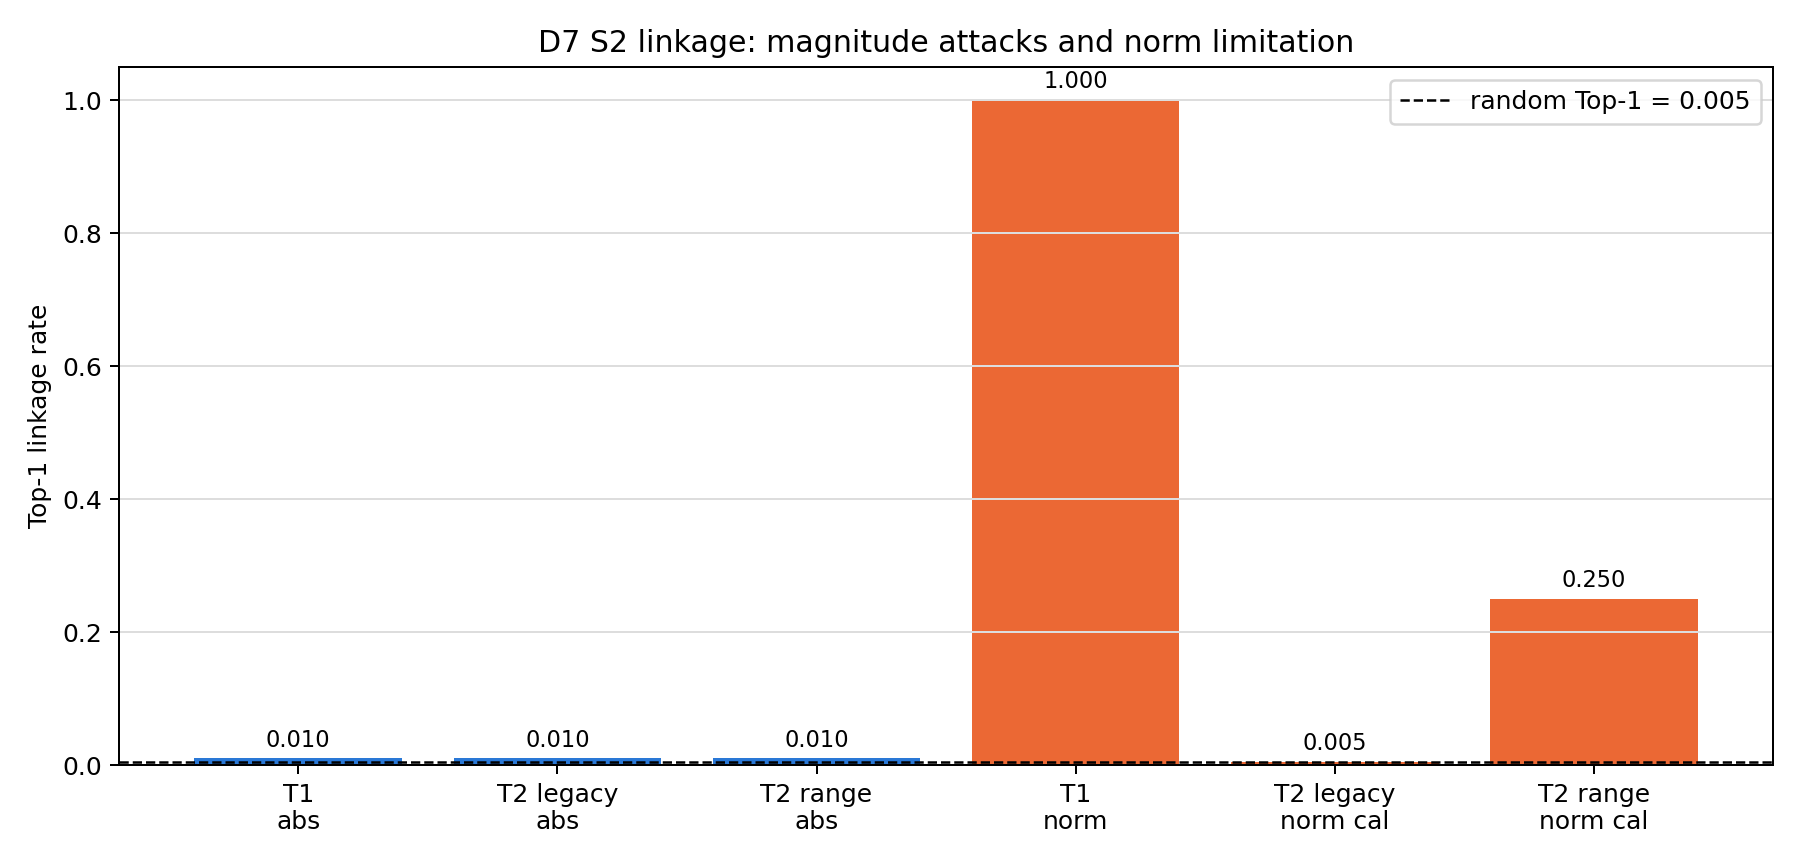
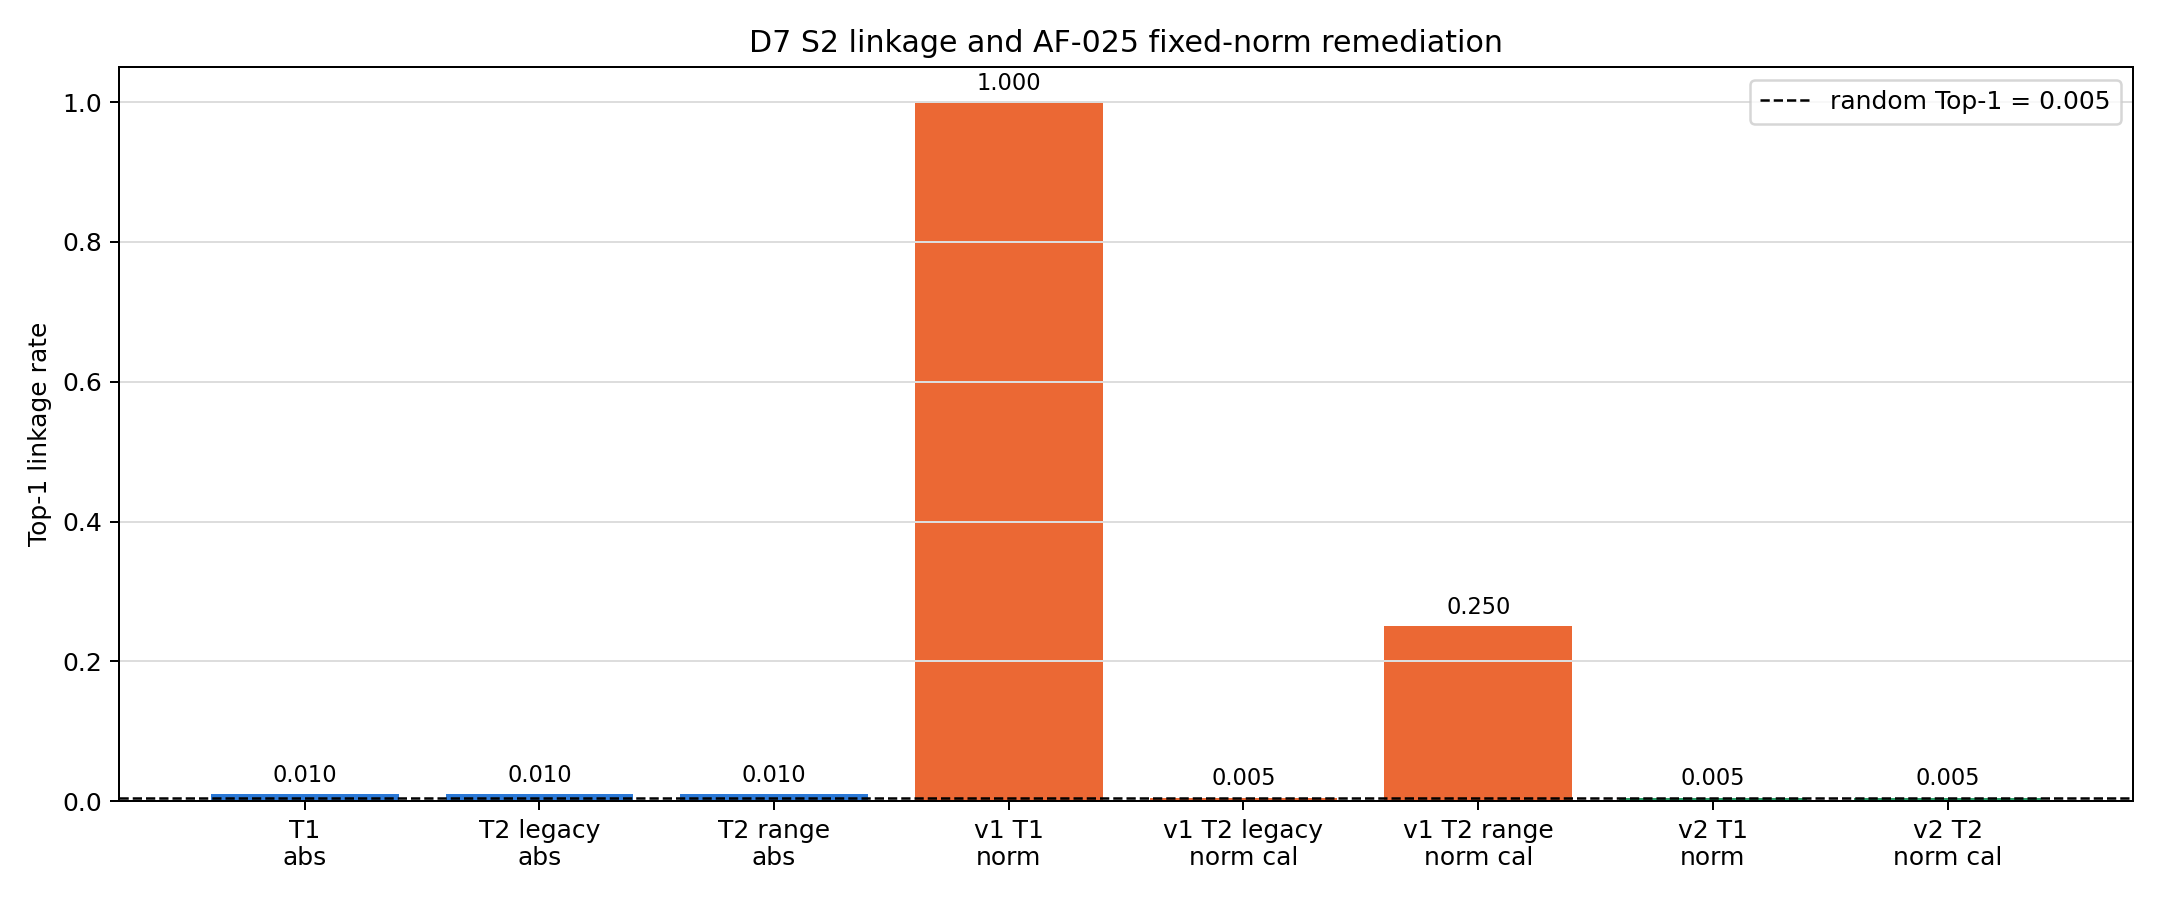
results: validate AF-025 fixed-norm defense

Changed region(s): [[0.0, 0.0312, 0.9956, 0.9688], [0.9644, 0.4062, 0.9956, 0.4375], [0.0311, 0.25, 0.0622, 0.2812]]

diff --git a/scripts/build_defense_package.py b/scripts/build_defense_package.py
@@ -57,6 +57,7 @@ def main() -> None:
         "repeat": ROOT / "paper_assets/tables/table_repeat.csv",
         "tamper": ROOT / "paper_assets/tables/table_tamper.csv",
         "inversion": ROOT / "paper_assets/tables/table_D7_T2WB_inversion.csv",
+        "fixed_norm": ROOT / "paper_assets/tables/table_AF025_fixed_norm_norm_leakage.csv",
     }
     data = {name: read_csv(path) for name, path in sources.items()}
     abs_t1 = select(data["attack"], threat_model="T1", scorer="abs")
@@ -74,6 +75,8 @@ def main() -> None:
     repeat_unique = int(data["repeat"][0]["unique_payloads_total"])
     inv_legacy = select(data["inversion"], storage="legacy_png", metric="attacker_latent_cosine")
     inv_range = select(data["inversion"], storage="range_preserving_png", metric="attacker_latent_cosine")
+    fixed_norm_t1 = select(data["fixed_norm"], threat_model="T1")
+    fixed_norm_t2 = select(data["fixed_norm"], threat_model="T2-WB", calibration="dev_median_to_C")
     claims = [
         ("D7-C1", "T1 original-|z| linkage", f"Top-1={float(abs_t1['top1']):.3f} (random=0.005)", "attack"),
         ("D7-C2", "T2-WB original-|z| linkage across storage", f"legacy={float(abs_t2_legacy['top1']):.3f}; range={float(abs_t2_range['top1']):.3f}", "attack"),
@@ -84,6 +87,7 @@ def main() -> None:
         ("D7-C7", "Same-plaintext repeat", f"unique protected payloads={repeat_unique}/100", "repeat"),
         ("D7-C8", "Authentication", f"S2 rejected={sum(r['rejected']=='True' for r in tamper_s2)}/{len(tamper_s2)}; S2a rejected={sum(r['rejected']=='True' for r in tamper_s2a)}/{len(tamper_s2a)}", "tamper"),
         ("D7-C9", "T2-WB inversion positive-control quality", f"latent cosine legacy={float(inv_legacy['mean']):.6f}; range={float(inv_range['mean']):.6f}", "inversion"),
+        ("D7-C10", "AF-025 fixed-norm remediation", f"norm Top-1 T1={float(fixed_norm_t1['top1']):.3f}; T2-WB={float(fixed_norm_t2['top1']):.3f}", "fixed_norm"),
     ]
     claim_rows = [{
         "claim_id": claim_id, "claim": claim, "headline": headline,
@@ -93,14 +97,15 @@ def main() -> None:
     } for claim_id, claim, headline, source_name in claims]
     write_csv(claims_path, claim_rows)
 
-    labels = ("T1\nabs", "T2 legacy\nabs", "T2 range\nabs", "T1\nnorm", "T2 legacy\nnorm cal", "T2 range\nnorm cal")
+    labels = ("T1\nabs", "T2 legacy\nabs", "T2 range\nabs", "v1 T1\nnorm", "v1 T2 legacy\nnorm cal", "v1 T2 range\nnorm cal", "v2 T1\nnorm", "v2 T2\nnorm cal")
     values = [float(abs_t1["top1"]), float(abs_t2_legacy["top1"]), float(abs_t2_range["top1"]),
-              float(norm_t1["top1"]), float(norm_legacy["top1"]), float(norm_range["top1"])]
-    colours = ["#2a78d6"] * 3 + ["#eb6834"] * 3
-    fig, ax = plt.subplots(figsize=(10, 4.8))
+              float(norm_t1["top1"]), float(norm_legacy["top1"]), float(norm_range["top1"]),
+              float(fixed_norm_t1["top1"]), float(fixed_norm_t2["top1"])]
+    colours = ["#2a78d6"] * 3 + ["#eb6834"] * 3 + ["#2a9d66"] * 2
+    fig, ax = plt.subplots(figsize=(12, 5.0))
     bars = ax.bar(labels, values, color=colours)
     ax.axhline(1 / 200, color="black", linestyle="--", linewidth=1, label="random Top-1 = 0.005")
-    ax.set_ylim(0, 1.05); ax.set_ylabel("Top-1 linkage rate"); ax.set_title("D7 S2 linkage: magnitude attacks and norm limitation")
+    ax.set_ylim(0, 1.05); ax.set_ylabel("Top-1 linkage rate"); ax.set_title("D7 S2 linkage and AF-025 fixed-norm remediation")
     ax.grid(axis="y", color="#dddddd", linewidth=0.8); ax.legend()
     for bar, value in zip(bars, values):
         ax.text(bar.get_x() + bar.get_width() / 2, value + 0.018, f"{value:.3f}", ha="center", fontsize=9)
@@ -110,10 +115,10 @@ def main() -> None:
     lines = [
         "# P7.1 Defense Package", "",
         "本素材包由 `scripts/build_defense_package.py` 從 D7 表格重建；headline 不手抄。",
-        "S2a 與 S2 的 confidentiality transform 相同，差別是 S2 加入 authentication。", "",
+        "v1 顯示正交 transform 的 norm limitation；AF-025 v2 加入固定 norm 與 private recovery metadata。", "",
         "## 主素材", "",
         "- 方法／整合圖：`image/D6.7_s2_dev.png`",
-        "- 攻擊與 norm limitation：`image/D7_attack_summary.png`、`paper_assets/tables/table_attack_original.csv`、`table_norm_leakage.csv`",
+        "- 攻擊、norm limitation 與修補：`image/D7_attack_summary.png`、`paper_assets/tables/table_attack_original.csv`、`table_norm_leakage.csv`、`table_AF025_fixed_norm_norm_leakage.csv`",
         "- cross-nonce／geometry／probe／repeat／tamper：同目錄各 D7 表格。", "",
         "## Claim index", "",
         "| ID | Claim | Headline | Source |", "|---|---|---|---|",
@@ -121,7 +126,7 @@ def main() -> None:
     lines.extend(f"| {row['claim_id']} | {row['claim']} | {row['headline']} | `{row['source']}@{row['source_sha256_12']}` |" for row in claim_rows)
     lines.extend(["", "## 限制", "", "- magnitude／norm 與 geometry 結果是指定攻擊的實測，不是通用安全證明。",
                   "- D7.4 的顯式 full-map KPA/CPA 為 d=1,024 synthetic diagnostic；同 nonce positive control 通過。",
-                  "- range-preserving T2-WB norm linkage 仍明顯高於 random，屬 AF-025，需使用者裁決保護強度。", ""])
+                  "- v1 range-preserving T2-WB norm linkage 明顯高於 random；AF-025 v2 的指定 T1/T2-WB norm attack 已回到 random，但仍不是通用安全證明。", ""])
     index_path.parent.mkdir(parents=True, exist_ok=True)
     index_path.write_text("\n".join(lines), encoding="utf-8")
     print(f"wrote {claims_path}, {index_path}, {args.figure}")

diff --git a/PROGRESS.md b/PROGRESS.md
@@ -1377,6 +1377,9 @@ S2 定義為：256-bit random master key（password mode 才使用 memory-hard K
 * 新增 `scripts/af025_fixed_norm_cpu.py`、`af025_fixed_norm_t2wb.py`、`af025_fixed_norm_analyze.py`；CPU runner 已對 frozen `security_v1` N=200 執行，GPU runner 尚未啟動。
 * 使用者同意在確認與既有 vLLM 可共存後執行正式 GPU 補驗。檢查 RTX 5090：總 32,607 MiB、vLLM 14,342 MiB、RustDesk 537 MiB、當時 free 17,201 MiB、utilization 0%；先以 N=2 smoke 實測再決定啟動 formal。
 * 第一次 N=2 smoke `AF025_FIXED_NORM_SMOKE_20261014T160133624188Z_f2ea04c4` 完成兩張科學計算但 managed artifact validation fail：manifest 遺漏必填的 `container_version`／`nonce_mode`。已補欄；該 run 保留為 failed，不修改後重用。
+* 修正版 N=2 smoke `AF025_FIXED_NORM_SMOKE_20261014T160317566922Z_8e4ca5a2` succeeded／valid；dev calibration `AF025_FIXED_NORM_DEV_20261014T160426684716Z_911608a9` 完成 20/20，`formal=false`、`evidence_role=dev_calibration`、clean commit `202c7fc`。
+* formal run `AF025_FIXED_NORM_FORMAL_20261014T161327001754Z_c4eda689` 完成 security_v1 200/200；每張只生成一次 anonymous image，再分別做 attacker public-PNG inversion 與 legitimate private-range inversion。run succeeded、artifact validator valid、query `(200,1,256,256)` 全部有限且 hash 重讀一致。
+* 執行 `scripts/af025_fixed_norm_analyze.py`：dev 只凍結 median attacker-norm/C=`1.013018`；formal 同時報 raw 與 dev-calibrated norm linkage，未用 formal 標籤調參。
 
 ### 3. 執行結果 (Results & Observations)
 * [事實] AF-025 CPU formal N=200：固定 norm T1 norm-only Top-1=`0.005`、Top-5=`0.025`，與 random=`0.005` 一致；原 S2 v1 的 T1 Top-1 為 `1.0`。
@@ -1385,11 +1388,16 @@ S2 定義為：256-bit random master key（password mode 才使用 memory-hard K
 * [事實] 全套正式測試範圍 `pytest -q tests` 為 108 passed、14 skipped；新增／相依 crypto focused tests 27 passed。
 * [事實] 目前沒有仍在執行的 AF-025 GPU managed run 或其他本專案背景程序；vLLM 為使用者既有程序，未停止或修改。
 * [事實] 第一次 smoke 執行中 DDIM Python 約占 1,712 MiB；含 vLLM/RustDesk 的 GPU 總使用 16,626 MiB，仍有 15,484 MiB free，未發生 OOM。兩張約 50 秒；正式 N=200 因每張一次生成＋攻擊者/合法端各一次 inversion，預估約 80–90 分鐘。
+* [事實] formal 實際耗時 77 分 10 秒，無 OOM／失敗／跳過；vLLM 未停止或修改。GPU 已釋放，目前沒有本專案背景程序。
+* [事實] AF-025 formal N=200：T2-WB raw norm-only Top-1=`0.005`、Top-5=`0.025`；dev-calibrated Top-1=`0.005`、Top-5=`0.035`；負控制與 random Top-1 均=`0.005`。原 S2 v1 的 range-preserving dev-calibrated Top-1=`0.250`。
+* [事實] legitimate private-range inversion 的 latent cosine mean=`0.999797`（95% bootstrap CI `[0.999794,0.999800]`）、min=`0.999729`；public PNG／storage record 200/200 均無 lo/hi。
+* [事實] 平均 runtime／張：anonymous generation=`7.744 s`、attacker inversion=`7.679 s`、legitimate inversion=`7.679 s`；三者合計約 `23.103 s`，不含一次性載入與 artifact validation。
+* [事實] defense package 已擴充為 10 條 claim，新增 D7-C10（fixed norm T1/T2-WB 均 `0.005`）；連續重建的 claims/index/figure SHA-256 完全一致。最終 `pytest -q tests` 為 108 passed、14 skipped。
 
 ### 4. 達標判定 (Assessment)
 * [x] AF-025 (a)(b)(e) 實作與 CPU formal T1／D7.6／D7.7 已完成實作方驗證。
-* [ ] AF-025 (c) formal N=200 T2-WB 尚待 N=2 smoke、dev calibration 與正式 managed GPU run。
-* [ ] finding 尚不可關閉；正式 GPU 結果與稽核複驗完成前維持「裁決已定、落地補驗中」。
+* [x] AF-025 (c)(d) formal N=200 T2-WB、repeat、structured probe 與 legitimate positive control 已完成實作方驗證。
+* [x] **AF-025 實作方 FIXED?**：裁決 (a)–(e) 均已落地，指定 norm attack 由 v1 的 T1=`1.0`／T2-WB=`0.25` 降至 v2 的 `0.005`／`0.005`；finding 仍須稽核方複驗後才 CLOSED。
 
 ### 5. 歸因分析與下一輪修正策略 (Reflection & Next Action)
 * 固定 norm 不是增加 WHT 輪數，而是在正交核心前移除已確認的病人間 norm 指紋；真實尺度只存在於經 AEAD 加密的 recovery metadata。
@@ -1400,5 +1408,5 @@ S2 定義為：256-bit random master key（password mode 才使用 memory-hard K
 * 無。依使用者最新裁決新增 §2.5 並更新 S2 v2 定義；formal sample size 維持 N=200，舊 S2 v1 結果保留作修補前基準而不覆寫。
 
 ### 7. 下一步
-* 先提交並固定 source commit，執行 AF-025 N=2 GPU smoke，同步觀察 VRAM 與 vLLM；若無 OOM 且餘裕合理，再跑 dev calibration 與使用者已條件同意的 formal N=200。
-* formal 完成後執行 analyzer、更新 AF-025 T1/T2-WB 表格與 defense package，記錄 runtime/storage/合法 fidelity，送稽核關閉 AF-025。
+* 請稽核方獨立複算 fixed-norm T1/T2-WB norm Top-k、確認 public PNG/record 不含 lo/hi、private metadata tamper ordering，以及 repeat／probe 結果；複驗後裁決 AF-025 是否 CLOSED。
+* AF-025 關閉後進入 Q8；影像端合法重構品質沿用稽核 phase-B n=40 作診斷，Q8 formal 另以 PSNR／SSIM／L∞ 完成主表，不以 latent cosine 取代影像品質。

diff --git a/reports/t2wb_protocol.md b/reports/t2wb_protocol.md
@@ -2,6 +2,7 @@
 
 > 狀態：§1–§3 為量測規則；§4 為使用者 2026-10-10 裁決的 `Inconclusive` 規則（取代原提案），A4／D7 依此實作。
 > 依據：WORKFLOW §3.4 第 4 點、PROPOSAL §5.4、AUD-20261008-03（AF-017、AF-019）。
+> AF-025 更新：2026-10-14 使用者裁決採固定 norm S2 v2；舊有 legacy/range-preserving 兩欄規則保留為 v1 與前作比較，v2 規則見 §3.2。
 
 ## 1. 為什麼不能用 latent cosine 0.906
 
@@ -56,6 +57,14 @@
 - **metadata enrollment 前提**：lo/hi 無法直接和原圖 latent 比距離。其 linkage gallery 明定為攻擊者已持有、以同一固定 legacy key／pipeline 產生的具身分標籤 anonymous enrollment metadata；這比純 T2-WB 多一個 auxiliary enrollment oracle，結果必須標成 `T2-WB+enrollment`，不得冒充 key recovery。若每位病人只有同一筆 deterministic record，禁止拿 query 本身當 enrollment；正式實驗必須使用不同影像／不同 acquisition，否則該格標 `not_evaluable`。
 - **特徵合併**：lo/hi＋原特徵不得用 formal 標籤調權重。各距離先以 dev negative-pair distance 的 median/MAD 做 robust 標準化，再以預先固定的等權平均合併；MAD=0 的 metadata（legacy 常數欄）只保留原特徵並標記 metadata 無變異。
 - **controls**：各 scorer 沿用 §3 的方案專屬正控制與 seed 1911 shuffle 負控制；另記 calibration split hash、樣本數、bias、median/MAD 與 enrollment 前提。科學 Top-k 不作工程通過門檻。
+
+### 3.2 AF-025 裁決後：固定 norm S2 v2
+
+- transform 前把每張 latent 縮放到凍結公開常數 `C=248.261`；真實 norm 只存在於 ChaCha20-Poly1305 private metadata，合法 inverse 後恢復。
+- M1 public PNG 只含量化像素 `q`，不含 lo/hi text chunk；public storage record 的 lo/hi 亦為空。合法端須先通過外層 HMAC，再解密 private lo/hi、decode、inversion、inverse 與 norm restore。
+- T2-WB 攻擊者 query 是 public PNG 的 `q/255` 經目標模型 inversion；合法 positive control 使用 private lo/hi 還原值域後 inversion。兩者不得混用。
+- dev_v1.1 只凍結 `median(||zhat_public||/C)`；security_v1 N=200 同時報 raw 與 dev-calibrated norm-only。正式結果：T1 Top-1=`0.005`；T2-WB raw／dev-calibrated Top-1 均=`0.005`（random=`0.005`）；合法 latent cosine mean=`0.999797`。
+- 結論只限指定 norm attack；fixed norm、repeat 與 structured probes 的成功不構成一般 IND-CPA 或通用安全證明。
 
 ## 4. `Inconclusive` 判定（使用者裁決 2026-10-10，AUD-20261010-02 §1）
 

diff --git a/README.md b/README.md
@@ -147,8 +147,11 @@
 | `paper_assets/tables/table_D7_T2WB_inversion.csv` | D7.1 formal N=200 的兩種存檔 inversion 品質、runtime 與 bootstrap 95% CI；逐樣本 query 留在 managed run，不進 Git。 |
 | `paper_assets/tables/table_attack_original.csv`、`table_norm_leakage.csv` | D7.2/D7.3 的 T1/T2-WB 正式結果；包含兩種存檔、相同 magnitude scorer、dev-only norm calibration 與正負控制。 |
 | `paper_assets/tables/table_cross_nonce.csv`、`table_geometry.csv`、`table_structured_probe.csv`、`table_repeat.csv`、`table_tamper.csv` | D7.4–D7.8：cross-nonce KPA/CPA、pairwise geometry、非 Gaussian probes、100 次重複加密與 S2/S2a tamper 對照。 |
-| `paper_assets/defense_package/`、`image/D7_attack_summary.png` | P7.1 defense 素材包：9 條 claim→source hash 索引、方法／攻擊／norm limitation／tamper 素材導覽與 D7 Top-1 圖。 |
+| `paper_assets/defense_package/`、`image/D7_attack_summary.png` | P7.1 defense 素材包：10 條 claim→source hash 索引、方法／攻擊／norm limitation／AF-025 修補／tamper 素材導覽與 D7 Top-1 圖。 |
 | `results/D7_T1_T2WB_linkage.json` | D7.2/D7.3 完整分析 provenance：formal/dev run ID、dev norm bias、positive/negative controls 與各 storage/scorer metrics。 |
+| `paper_assets/tables/table_AF025_fixed_norm_T1.csv`、`table_AF025_fixed_norm_norm_leakage.csv` | AF-025 固定 norm v2 的 formal N=200 T1/T2-WB norm-only 結果；含 raw、dev calibration、負控制與 random baseline。 |
+| `paper_assets/tables/table_AF025_fixed_norm_probe.csv`、`table_AF025_fixed_norm_repeat.csv` | AF-025 補驗的 structured probes 與同明文 100-nonce repeat evidence。 |
+| `paper_assets/tables/table_AF025_fixed_norm_T2WB_inversion.csv`、`results/AF025_fixed_norm_T1_T2WB.json` | fixed-norm formal/dev run provenance、攻擊者 public-PNG inversion、合法 private-range positive control 與 runtime 摘要。 |
 | `reports/method_comparison.md`、`image/method_comparison.png` | 固定 `dev_v1.1_010` 的 P/S0/S1/S2a/S2 三欄比較（原圖／stored anonymous／重構圖），含 storage protocol 與 cosine estimand 解讀。 |
 | `paper_assets/tables/table_method_comparison.csv`、`results/method_comparison.json` | 上述單圖的 PSNR、SSIM、L∞、float/uint8 最大 pixel error、MSE/RMSE/MAE、x0 cosine、P-output cosine與完整 provenance。 |
 | `results/A3.4_T1_gallery.json` | A3.4 逐 scheme×scorer 的 Top-1/5、mAP、CI、CMC 與正負控制（security_v1 200 張，T1）。 |

diff --git a/paper_assets/defense_package/index.md b/paper_assets/defense_package/index.md
@@ -1,12 +1,12 @@
 # P7.1 Defense Package
 
 本素材包由 `scripts/build_defense_package.py` 從 D7 表格重建；headline 不手抄。
-S2a 與 S2 的 confidentiality transform 相同，差別是 S2 加入 authentication。
+v1 顯示正交 transform 的 norm limitation；AF-025 v2 加入固定 norm 與 private recovery metadata。
 
 ## 主素材
 
 - 方法／整合圖：`image/D6.7_s2_dev.png`
-- 攻擊與 norm limitation：`image/D7_attack_summary.png`、`paper_assets/tables/table_attack_original.csv`、`table_norm_leakage.csv`
+- 攻擊、norm limitation 與修補：`image/D7_attack_summary.png`、`paper_assets/tables/table_attack_original.csv`、`table_norm_leakage.csv`、`table_AF025_fixed_norm_norm_leakage.csv`
 - cross-nonce／geometry／probe／repeat／tamper：同目錄各 D7 表格。
 
 ## Claim index
@@ -22,9 +22,10 @@ S2a 與 S2 的 confidentiality transform 相同，差別是 S2 加入 authentica
 | D7-C7 | Same-plaintext repeat | unique protected payloads=100/100 | `paper_assets/tables/table_repeat.csv@78285b58d5d1` |
 | D7-C8 | Authentication | S2 rejected=7/7; S2a rejected=0/1 | `paper_assets/tables/table_tamper.csv@af52e845d625` |
 | D7-C9 | T2-WB inversion positive-control quality | latent cosine legacy=0.990134; range=0.999798 | `paper_assets/tables/table_D7_T2WB_inversion.csv@f90d555fc1f7` |
+| D7-C10 | AF-025 fixed-norm remediation | norm Top-1 T1=0.005; T2-WB=0.005 | `paper_assets/tables/table_AF025_fixed_norm_norm_leakage.csv@a8eae222e1b5` |
 
 ## 限制
 
 - magnitude／norm 與 geometry 結果是指定攻擊的實測，不是通用安全證明。
 - D7.4 的顯式 full-map KPA/CPA 為 d=1,024 synthetic diagnostic；同 nonce positive control 通過。
-- range-preserving T2-WB norm linkage 仍明顯高於 random，屬 AF-025，需使用者裁決保護強度。
+- v1 range-preserving T2-WB norm linkage 明顯高於 random；AF-025 v2 的指定 T1/T2-WB norm attack 已回到 random，但仍不是通用安全證明。
